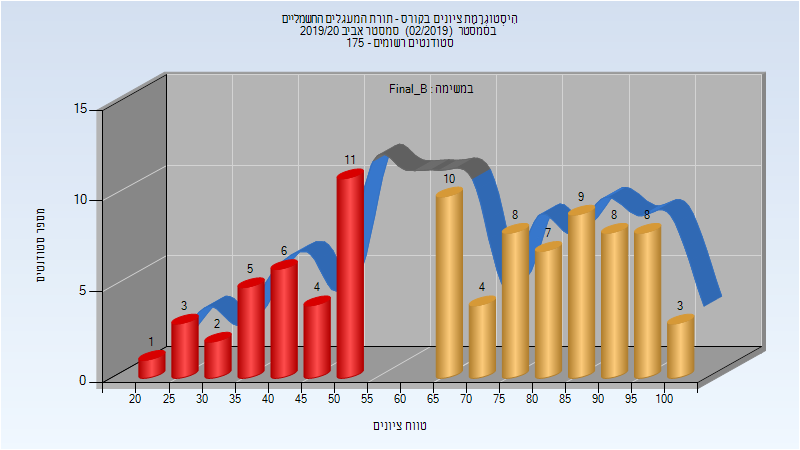
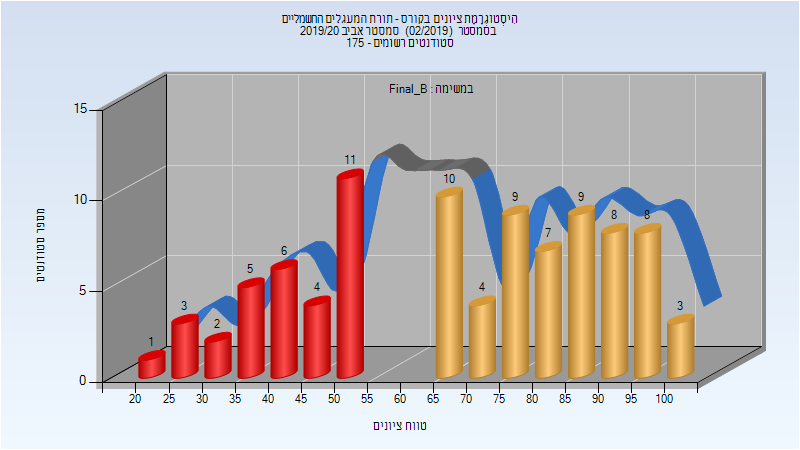
Deploy michael-maltsev/technion-histograms to github.com/michael-maltsev/technion-histograms.git:gh-pages

Changed region(s): [[0.625, 0.4044, 0.7188, 0.5289]]

diff --git a/044105/index.html b/044105/index.html
@@ -2157,13 +2157,13 @@
 </thead>
 <tbody>
 <tr>
-<td>89</td>
-<td>57/32</td>
+<td>90</td>
+<td>58/32</td>
 <td>64</td>
 <td>21</td>
 <td>100</td>
-<td>65.921</td>
-<td>65</td>
+<td>65.978</td>
+<td>65.5</td>
 </tr>
 </tbody>
 </table>
@@ -2183,13 +2183,13 @@
 </thead>
 <tbody>
 <tr>
-<td>89</td>
-<td>57/32</td>
+<td>90</td>
+<td>58/32</td>
 <td>64</td>
 <td>21</td>
 <td>100</td>
-<td>68.742</td>
-<td>72</td>
+<td>68.844</td>
+<td>73</td>
 </tr>
 </tbody>
 </table>

diff --git a/044105/README.md b/044105/README.md
@@ -671,7 +671,7 @@
 
 | סטודנטים | עברו/נכשלו | אחוז עוברים | ציון מינימלי | ציון מקסימלי | ממוצע | חציון |
 | ---- | ---- | ---- | ---- | ---- | ---- | ---- |
-| 89 | 57/32 | 64 | 21 | 100 | 65.921 | 65 |
+| 90 | 58/32 | 64 | 21 | 100 | 65.978 | 65.5 |
 
 ### סופי מועד ב'
 
@@ -679,7 +679,7 @@
 
 | סטודנטים | עברו/נכשלו | אחוז עוברים | ציון מינימלי | ציון מקסימלי | ממוצע | חציון |
 | ---- | ---- | ---- | ---- | ---- | ---- | ---- |
-| 89 | 57/32 | 64 | 21 | 100 | 68.742 | 72 |
+| 90 | 58/32 | 64 | 21 | 100 | 68.844 | 73 |
 
 ### סופי
 
